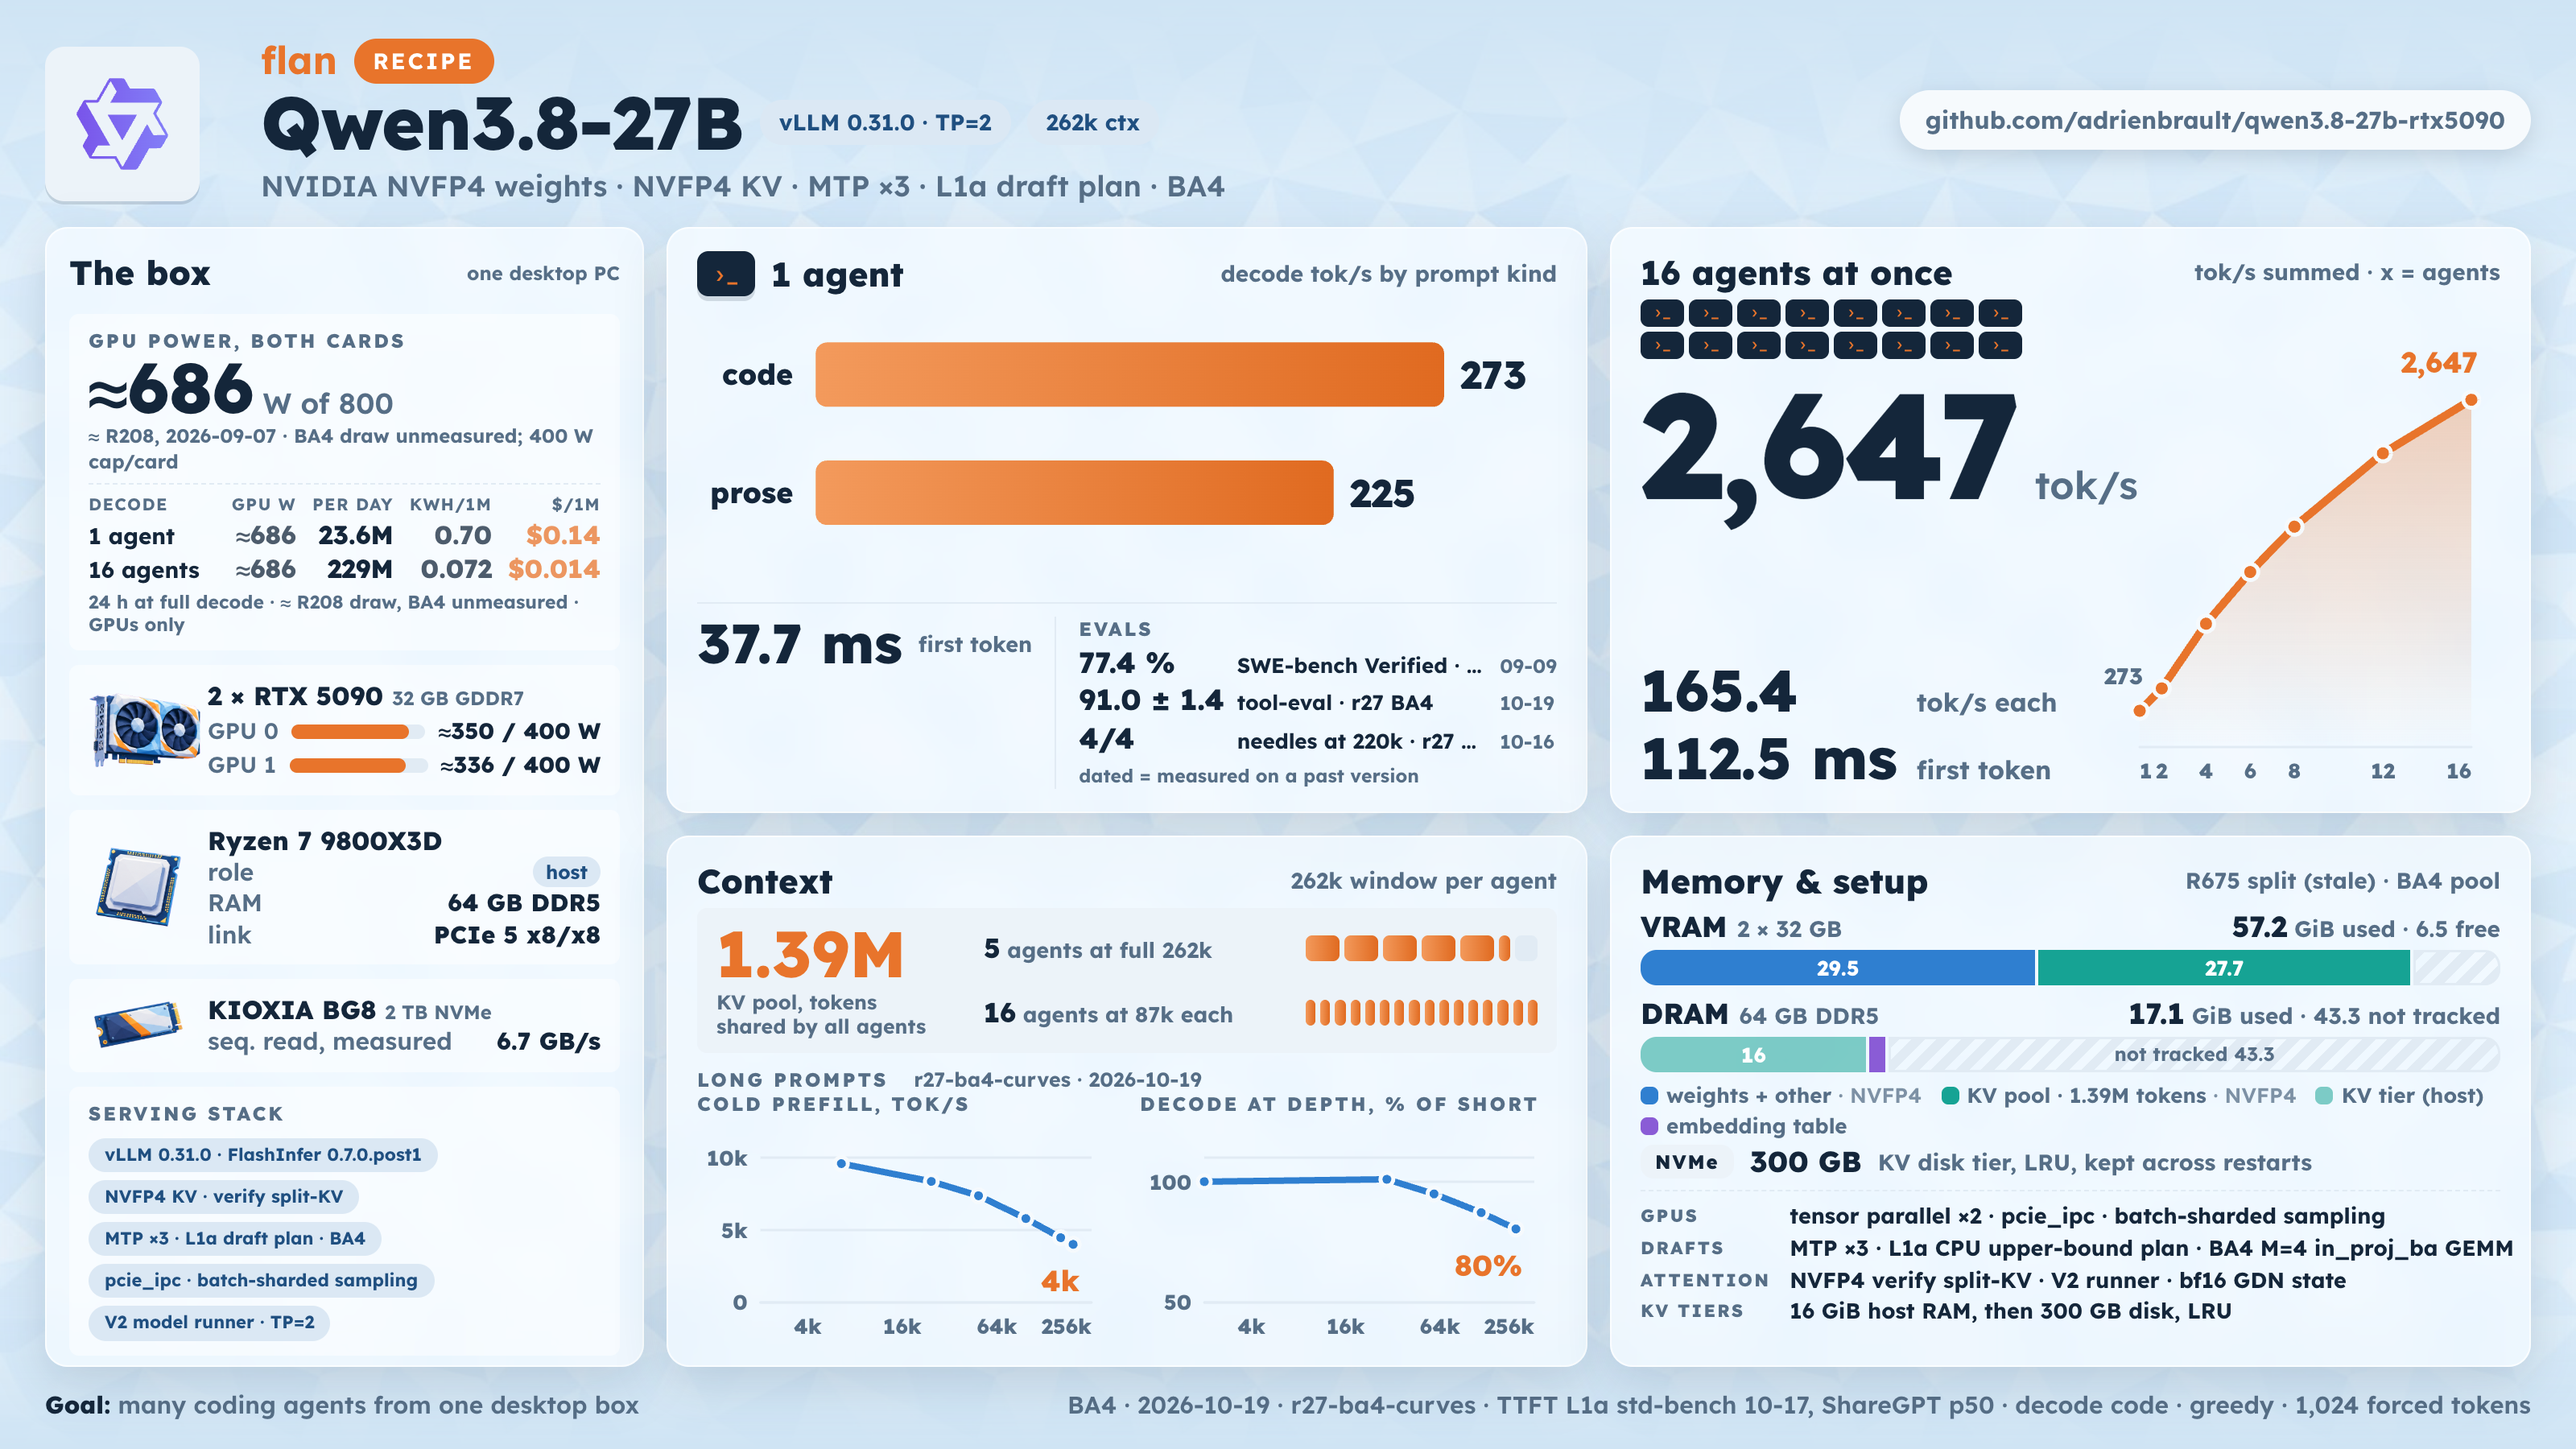
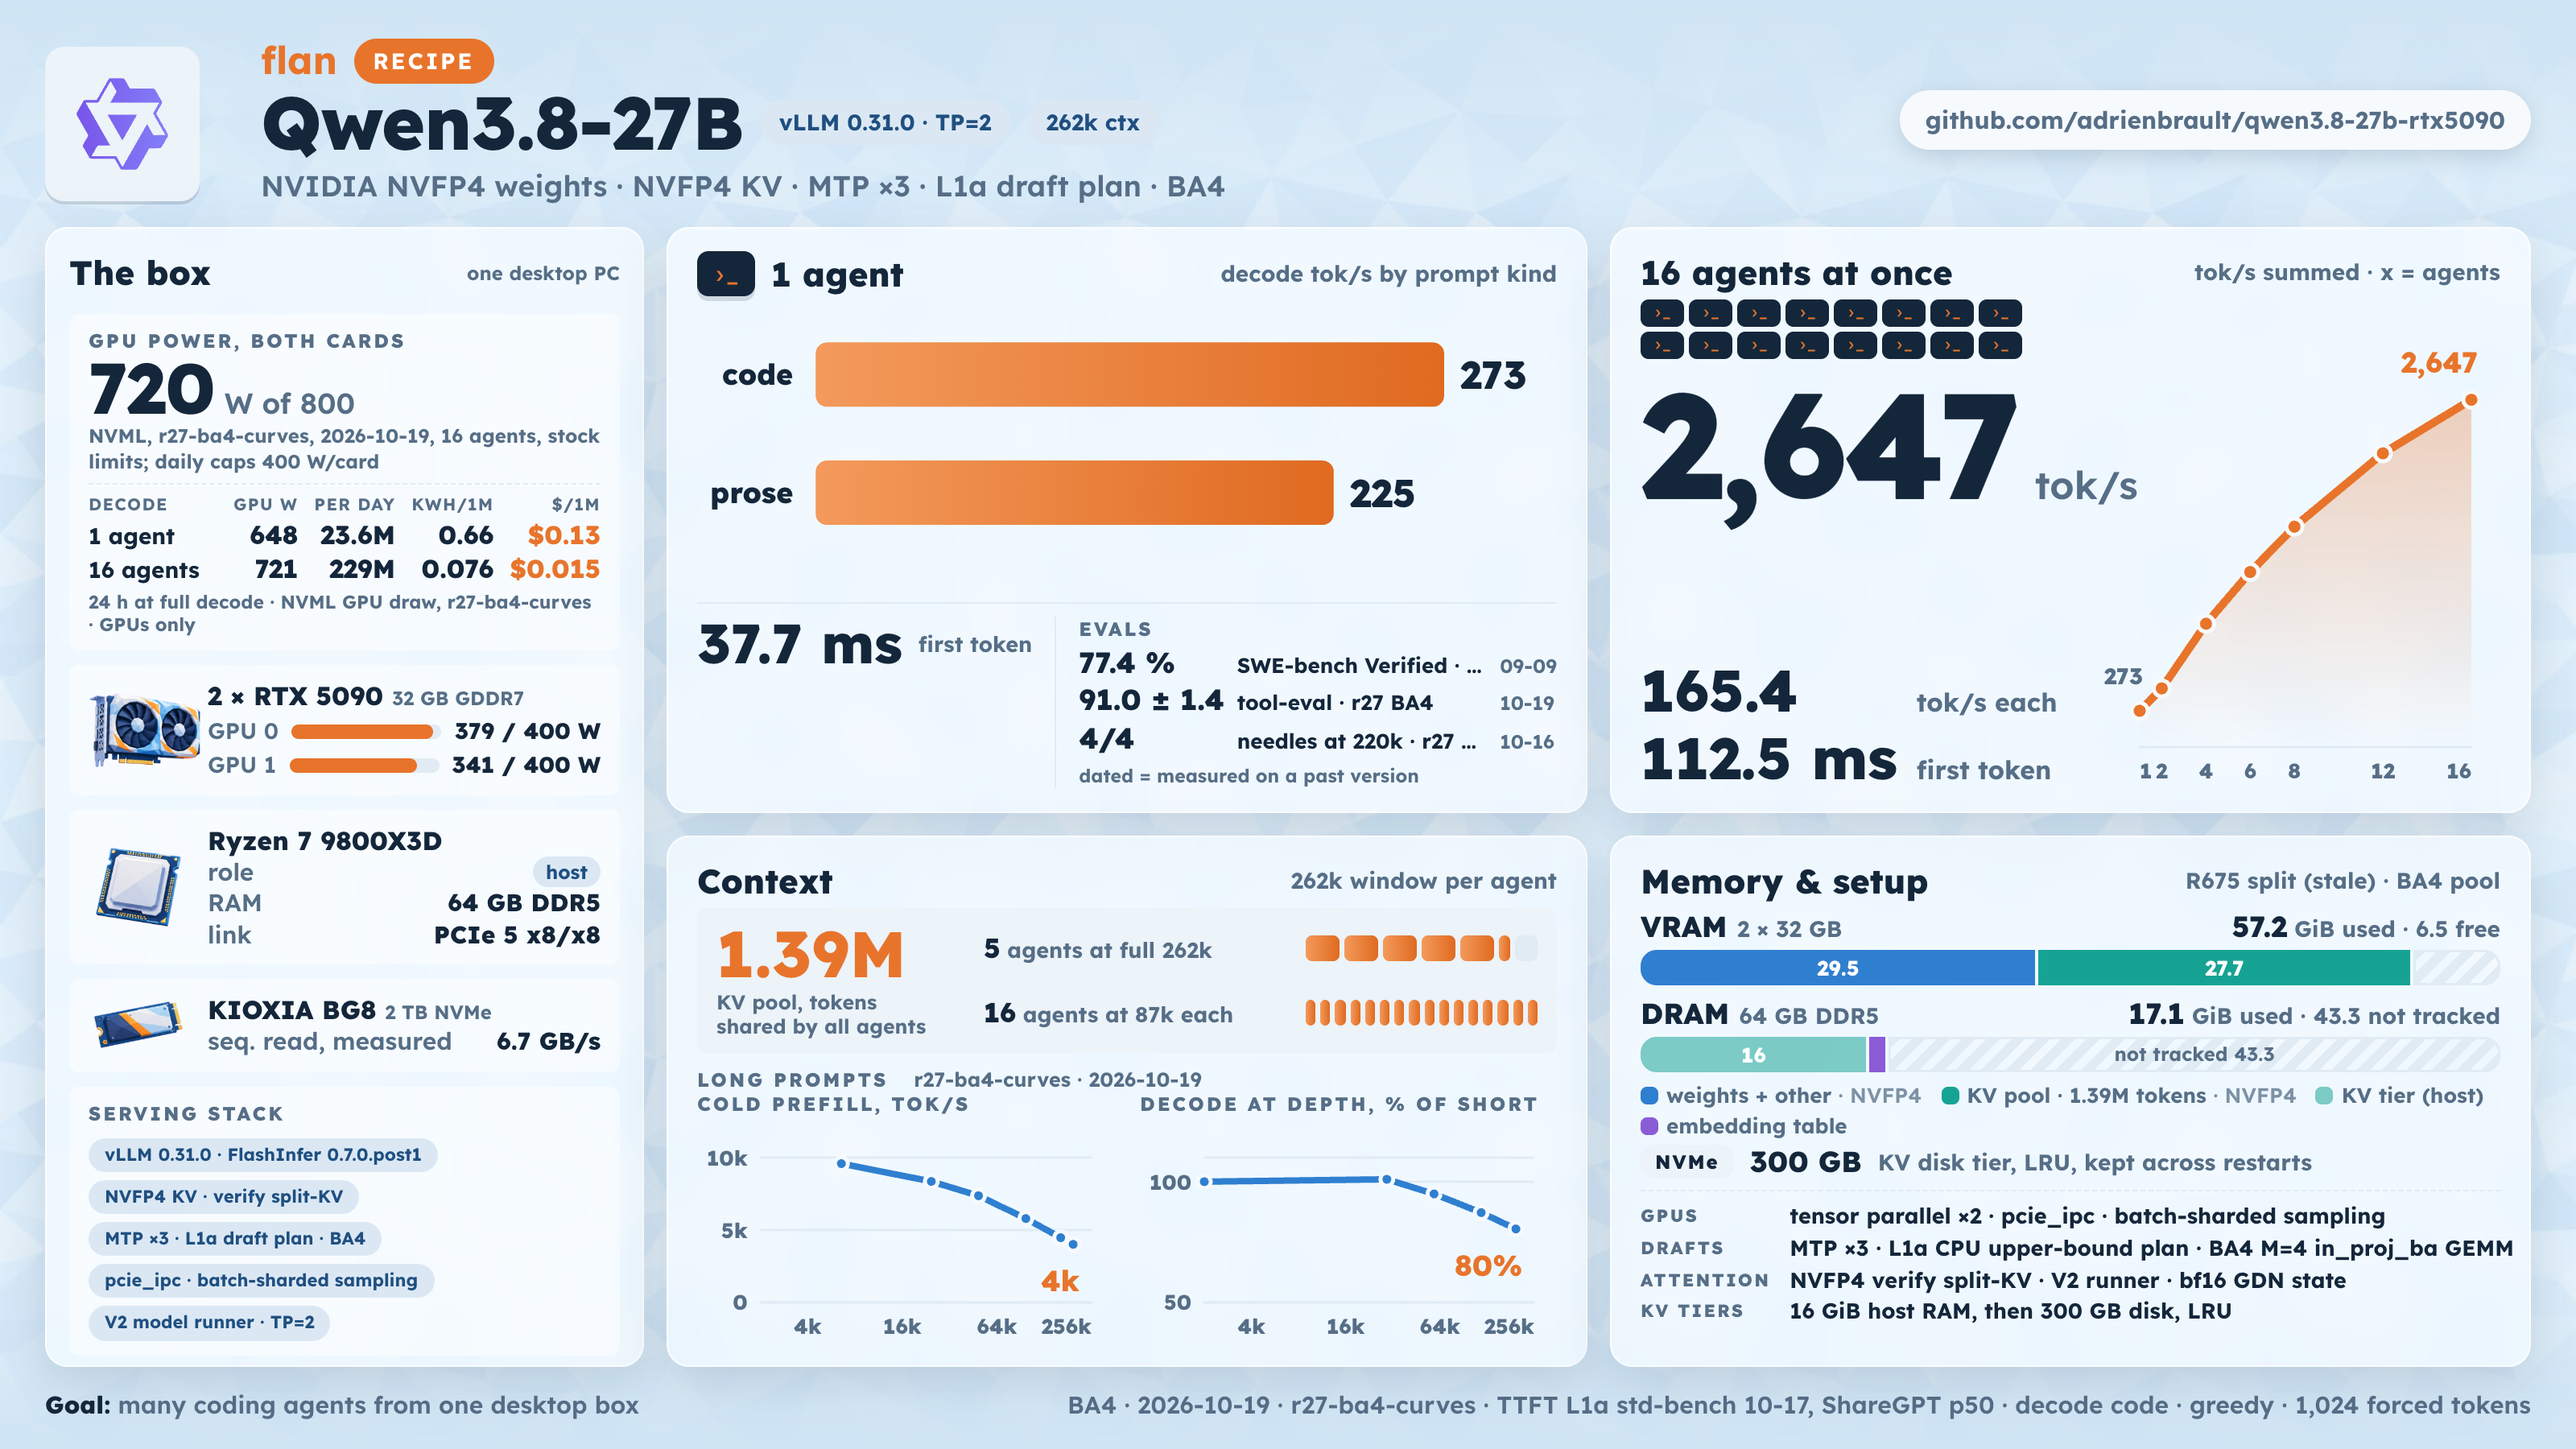
Recipe card: measured GPU power from r27-ba4-curves

Changed region(s): [[0.0312, 0.2489, 0.25, 0.4356], [0.1562, 0.4978, 0.1875, 0.5289], [0.0312, 0.4044, 0.0625, 0.4356]]

diff --git a/README.md b/README.md
@@ -4,7 +4,7 @@
 
 Serving configuration, vLLM patches, launch scripts and measurements for [Qwen3.8-27B](https://huggingface.co/Qwen/Qwen3.8-27B), served as [nvidia/Qwen3.8-27B-NVFP4](https://huggingface.co/nvidia/Qwen3.8-27B-NVFP4) by [vLLM](https://github.com/vllm-project/vllm) v0.31.0 with the patch chain in [patches-v0310/](patches-v0310/) and FlashInfer 0.7.0.post1 across two RTX 5090 cards. The window is 262,144 tokens, the KV cache is NVFP4, the checkpoint's own MTP head drafts 3 tokens, and vision, reasoning, tool calls and structured output are all on. The target workload is a few concurrent coding agents with long contexts. The one-card and older shapes are under [Other configurations](#other-configurations).
 
-Every number in the text and tables was measured on one machine on the date given, and each links the write-up that names its raw results directory; the card's power figures are marked ≈ where they come from an earlier draw measurement. The index of experiments is [bench/RESULTS.md](bench/RESULTS.md), newest first.
+Every number in the text and tables was measured on one machine on the date given, and each links the write-up that names its raw results directory. None is an estimate. The index of experiments is [bench/RESULTS.md](bench/RESULTS.md), newest first.
 
 ## Numbers
 
